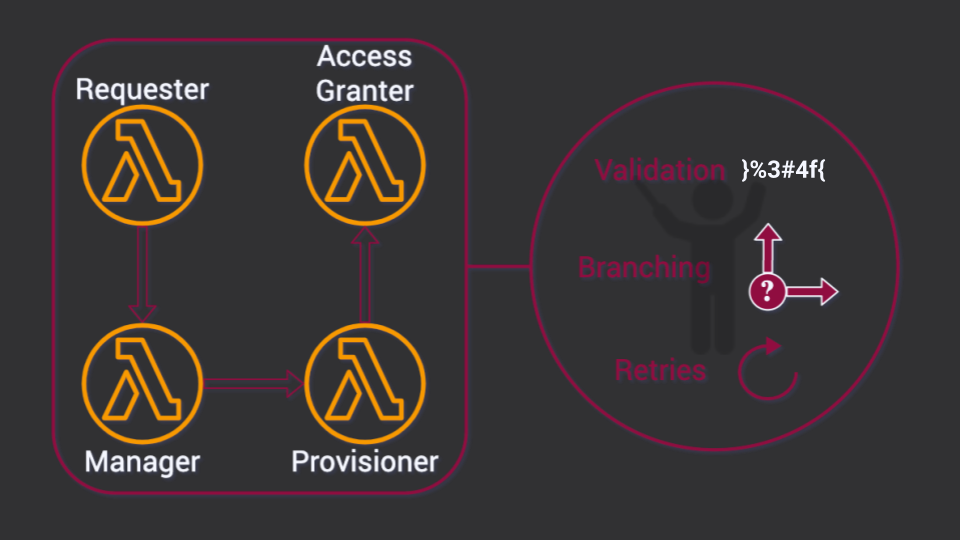
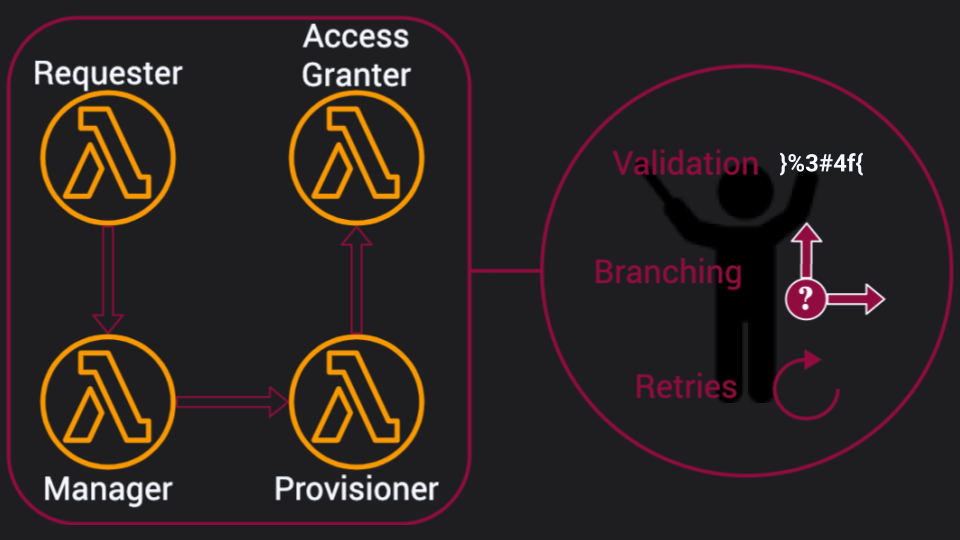
Update several images and make background slightly darker

diff --git a/assets/css/main.css b/assets/css/main.css
@@ -5,7 +5,7 @@
 ------------------------------------ */
 
 body {
-  background-color: #313133;
+  background-color: #1e1e20;
   color: #f5f7ff;
   font-family: Roboto, sans-serif;
 }
